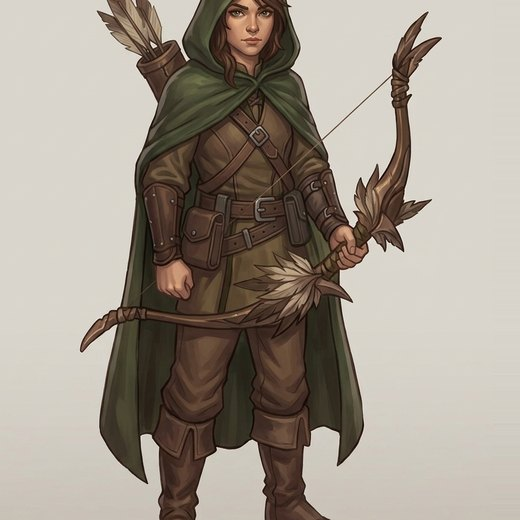
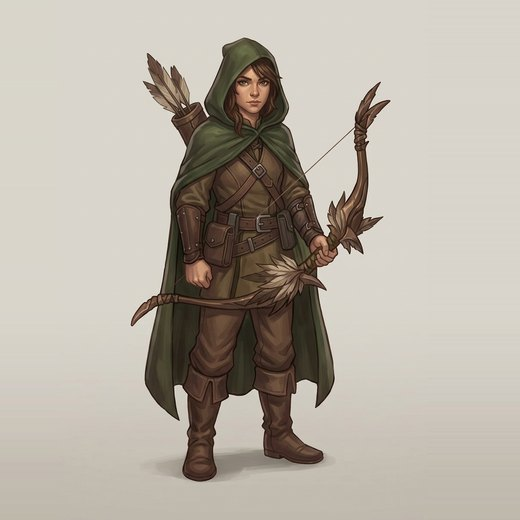
Vixen ni več odrezana: podaljšek roba sme biti velik
Kadriranje je podaljšek enakomernega roba omejilo na desetino izreza.
Pri pokončnih izvirnikih (Vixen) je bil želeni polmer skoraj dvakrat
večji od dovoljenega, zato je izrez odrezal glavo in noge, lik pa je
bil videti večji od sosedov. Na pestrem robu podaljška še vedno ni,
tako da proge pri zmaju ostanejo odpravljene.

Slike vseh 60 nivojev so znova obdelane iz IZVOR.txt.
Zraven še: __pycache__ ni več v repozitoriju.

diff --git a/sw.js b/sw.js
@@ -1,4 +1,4 @@
-const CACHE = 'zaslon-v40';
+const CACHE = 'zaslon-v41';
 
 /** Lupina aplikacije. */
 const ASSETS = [

diff --git a/orodja/kader.py b/orodja/kader.py
@@ -90,9 +90,9 @@ def kvadrat(pot, stran=520, zrak=1.18):
     r = max(x1 - x0, y1 - y0) * zrak / 2
 
     # Podaljšan rob je neopazen na enakomernem ozadju, na prizoru (korale pri
-    # zmaju) pa naredi proge. Zato ga dovolimo le tam, kjer je rob enakomeren,
-    # in še tam največ desetino izreza.
-    MEJA_PESTROSTI, NAJVEC_ROB = 12.0, 0.10
+    # zmaju) pa naredi proge. Zato ga dovolimo le tam, kjer je rob enakomeren —
+    # tam sme biti velik, sicer pokončnim izvirnikom (Vixen) odreže glavo.
+    MEJA_PESTROSTI, NAJVEC_ROB = 12.0, 0.55
     dovoljeno = {
         'levo':   cx,        'desno':  W - cx,
         'zgoraj': cy,        'spodaj': H - cy,
